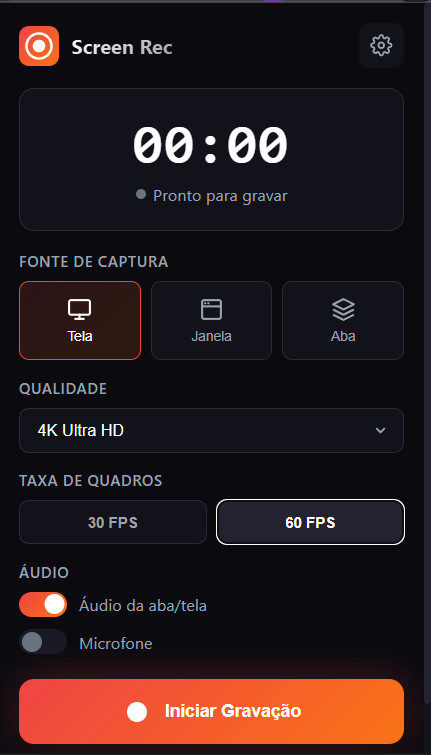
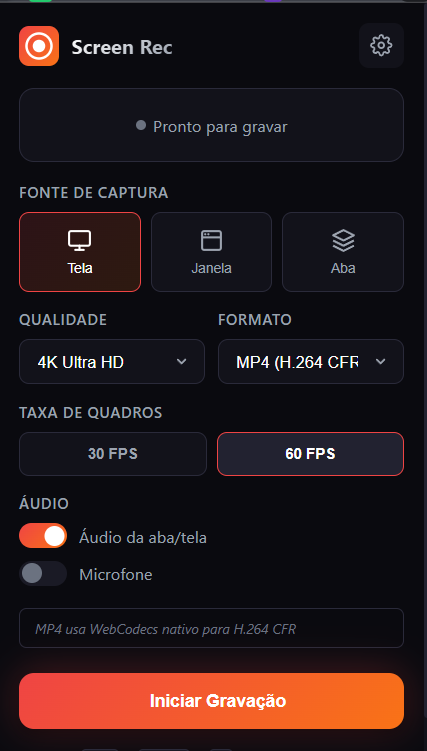
atualização na taxa de frames contanstes e no readme

diff --git a/offscreen/offscreen.js b/offscreen/offscreen.js
@@ -117,6 +117,7 @@ async function startWebCodecsRecording(options) {
       codec: "avc",
       width: width,
       height: height,
+      frameRate: fps, // Indica ao muxer a taxa de quadros esperada para CFR
     },
     audio: hasAudio
       ? {
@@ -199,8 +200,10 @@ async function startWebCodecsRecording(options) {
   isPaused = false;
   frameCount = 0;
 
-  // Loop de leitura de frames
-  const frameDuration = 1000000 / fps; // Em microsegundos
+  // Loop de leitura de frames com CFR forçado
+  const frameDurationMicros = 1000000 / fps; // Duração de cada frame em microsegundos
+  let baseTimestamp = null; // Timestamp base para cálculo CFR
+  let cfrFrameCount = 0; // Contador de frames para CFR
 
   const readFrames = async () => {
     try {
@@ -210,10 +213,28 @@ async function startWebCodecsRecording(options) {
         if (done || !isRecording) break;
 
         if (!isPaused) {
-          videoEncoder.encode(frame, {
-            keyFrame: frameCount % (fps * 2) === 0, // Keyframe a cada 2 segundos
+          // Captura o timestamp base do primeiro frame
+          if (baseTimestamp === null) {
+            baseTimestamp = frame.timestamp;
+          }
+
+          // Calcula o timestamp CFR forçado baseado na contagem de frames
+          // Isso garante espaçamento uniforme: frame 0 = 0µs, frame 1 = 16666µs (para 60fps), etc.
+          const cfrTimestamp =
+            baseTimestamp + Math.round(cfrFrameCount * frameDurationMicros);
+
+          // Cria um novo VideoFrame com o timestamp CFR forçado
+          const cfrFrame = new VideoFrame(frame, {
+            timestamp: cfrTimestamp,
+            duration: Math.round(frameDurationMicros),
           });
 
+          videoEncoder.encode(cfrFrame, {
+            keyFrame: cfrFrameCount % (fps * 2) === 0, // Keyframe a cada 2 segundos
+          });
+
+          cfrFrame.close();
+          cfrFrameCount++;
           frameCount++;
         }
 

diff --git a/README.md b/README.md
@@ -1,10 +1,15 @@
 # 🎬 Gravador de Tela Pro
 
-Uma extensão Chrome de código aberto para gravação de tela em alta qualidade, com suporte a **MP4 H.264 CFR** nativo via WebCodecs.
+Uma extensão Chrome de código aberto para gravação de tela em alta qualidade, com suporte a **MP4 H.264 CFR** nativo via WebCodecs, eliminando a necessidade de reprocessamento ou conversão externa.
 
 ![Chrome](https://img.shields.io/badge/Chrome-116+-green?logo=google-chrome)
 ![Manifest V3](https://img.shields.io/badge/Manifest-V3-blue)
 ![License](https://img.shields.io/badge/License-MIT-yellow)
+![HTML](https://img.shields.io/badge/HTML-E34F26?style=flat&logo=html5&logoColor=white)
+![JavaScript](https://img.shields.io/badge/JavaScript-F7DF1E?style=flat&logo=javascript&logoColor=white)
+![CSS](https://img.shields.io/badge/CSS-663399?style=flat&logo=css&logoColor=white)
+![JSON](https://img.shields.io/badge/JSON-000000?style=flat&logo=json&logoColor=white)
+![Markdown](https://img.shields.io/badge/Markdown-000000?style=flat&logo=markdown&logoColor=white)
 
 ## ✨ Funcionalidades
 
@@ -16,6 +21,20 @@ Uma extensão Chrome de código aberto para gravação de tela em alta qualidade
 - 🔒 **100% local** - Nenhum dado enviado para servidores externos
 - ⌨ **Atalhos de teclado** - `Alt+Shift+R` para abrir, `Alt+Shift+S` para gravar/parar
 
+## 📸 Screenshots
+
+<div align="center">
+  <img src="public/popup.png" alt="Interface Principal" width="300">
+  <p><em>Interface principal do popup</em></p>
+</div>
+
+<div align="center">
+  <img src="public/config-1.png" alt="Configurações de Vídeo" width="600">
+  <img src="public/config-2.png" alt="Configurações de Áudio" width="600">
+  <img src="public/config-3.png" alt="Configurações de Gravação" width="600">
+  <p><em>Página de configurações</em></p>
+</div>
+
 ## 📦 Formatos Suportados
 
 | Formato  | Codec              | CFR    | Uso                                     |
@@ -25,25 +44,13 @@ Uma extensão Chrome de código aberto para gravação de tela em alta qualidade
 
 ## 🚀 Instalação
 
-### Via Chrome Web Store
+Como este projeto é uma extensão não compactada, a instalação deve ser feita manualmente via modo de desenvolvedor:
 
-_Em breve_
-
-### Manual (Desenvolvedor)
-
-1. Clone o repositório:
-
-```bash
-git clone https://github.com/seu-usuario/gravador-de-tela.git
-```
-
-2. Abra `chrome://extensions` no Chrome
-
-3. Ative o **Modo do desenvolvedor** (canto superior direito)
-
-4. Clique em **Carregar sem compactação**
-
-5. Selecione a pasta do projeto
+1. Baixe ou clone este repositório para uma pasta local.
+2. Abra o navegador Chrome e acesse `chrome://extensions`.
+3. Ative a opção **"Modo do desenvolvedor"** no canto superior direito.
+4. Clique no botão **"Carregar sem compactação"** (Load unpacked).
+5. Selecione a pasta raiz do projeto (`gravador-de-tela/`).
 
 ## 🎮 Como Usar
 
@@ -78,23 +85,15 @@ Acesse as configurações clicando no ícone ⚙ no popup:
 
 ```
 gravador-de-tela/
-├── manifest.json          # Configuração da extensão
-├── background.js          # Service Worker principal
-├── popup/                 # Interface do usuário
-│   ├── popup.html
-│   ├── popup.css
-│   └── popup.js
-├── offscreen/             # Processamento de mídia
-│   ├── offscreen.html
-│   ├── offscreen.js
-│   └── mp4-muxer.min.js   # Muxer MP4 (31KB)
-├── options/               # Página de configurações
-│   ├── options.html
-│   ├── options.css
-│   └── options.js
-├── utils/                 # Utilitários compartilhados
-│   └── constants.js
-└── icons/                 # Ícones da extensão
+├── manifest.json          # Definição da extensão (Permissões, Versão, V3)
+├── background.js          # Service Worker: Gerenciamento de estado e eventos
+├── popup/                 # Interface principal (UI de controle)
+├── options/               # Página de configurações (Resolução, Codecs)
+├── offscreen/             # Processamento de mídia em background
+│   ├── offscreen.html     # Contexto DOM para WebCodecs
+│   ├── offscreen.js       # Lógica de encoding e muxing
+│   └── mp4-muxer.min.js   # Biblioteca para container MP4
+└── utils/                 # Constantes e helpers compartilhados
 ```
 
 ## 🔧 Requisitos
@@ -141,4 +140,17 @@ Encontrou um bug? Abra uma [issue](https://github.com/seu-usuario/gravador-de-te
 
 ---
 
-**Feito com ❤ para a comunidade**
+## FAQ Técnico
+
+**Por que utilizar um Offscreen Document?**
+
+O Service Worker (padrão no Manifest V3) não possui acesso direto ao DOM (`window` ou `document`), o que impede o uso de certas APIs de mídia. O arquivo `offscreen/offscreen.html` é criado dinamicamente para hospedar o contexto necessário para a `WebCodecs API` e o processamento de streams de áudio/vídeo, mantendo a gravação ativa mesmo se o popup for fechado.
+
+**Qual a diferença entre o modo WebCodecs e MediaRecorder?**
+
+- **WebCodecs (Padrão MP4):** Permite controle frame-a-frame da codificação. Isso garante que o arquivo final seja H.264 com Constant Frame Rate (CFR), essencial para compatibilidade com editores de vídeo como Premiere e DaVinci Resolve.
+- **MediaRecorder (Fallback WebM):** API de alto nível que geralmente grava em Variable Frame Rate (VFR) e codecs VP8/VP9. É usado apenas se a aceleração de hardware H.264 não estiver disponível.
+
+---
+
+**Esse README foi feito com [Buildmydocs](https://buildmydocs.dev)**
